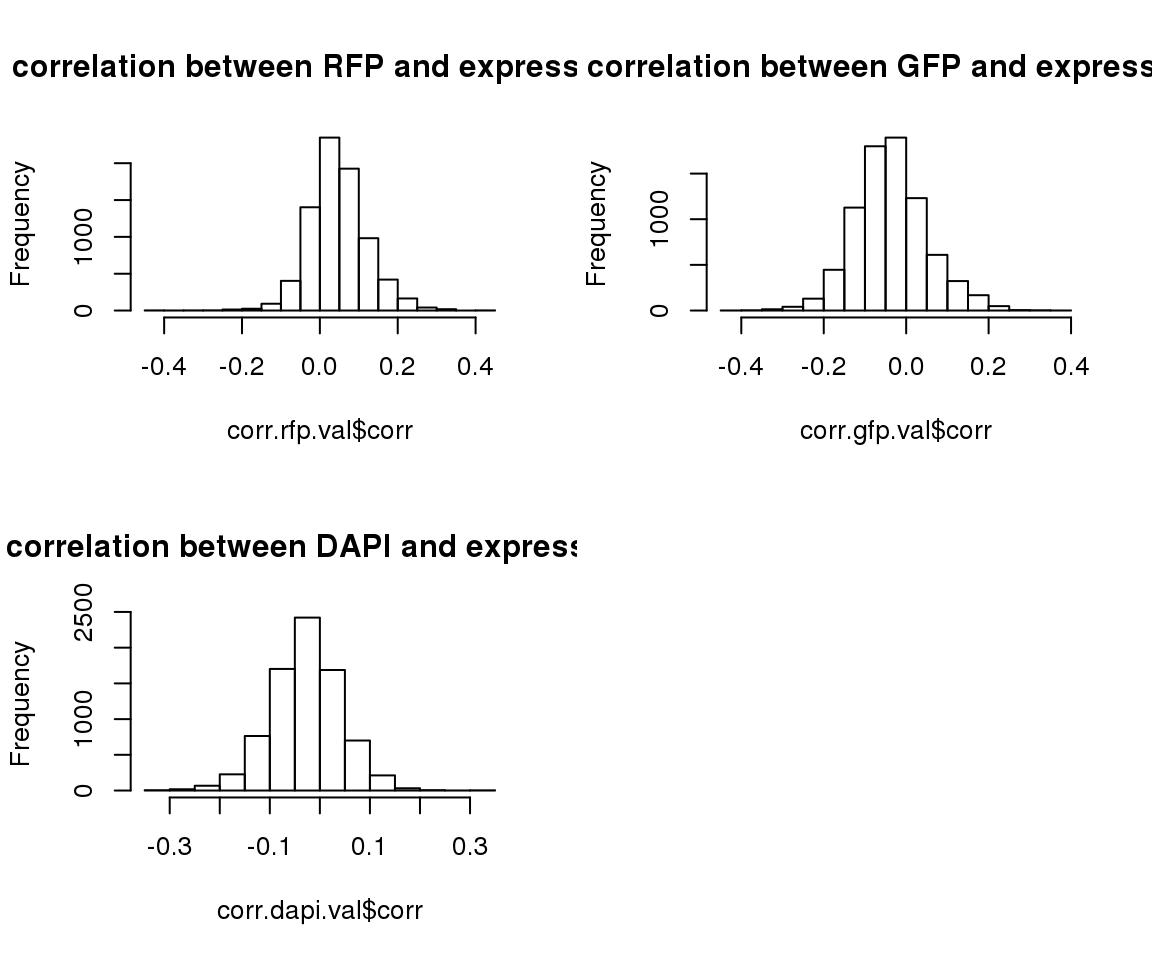
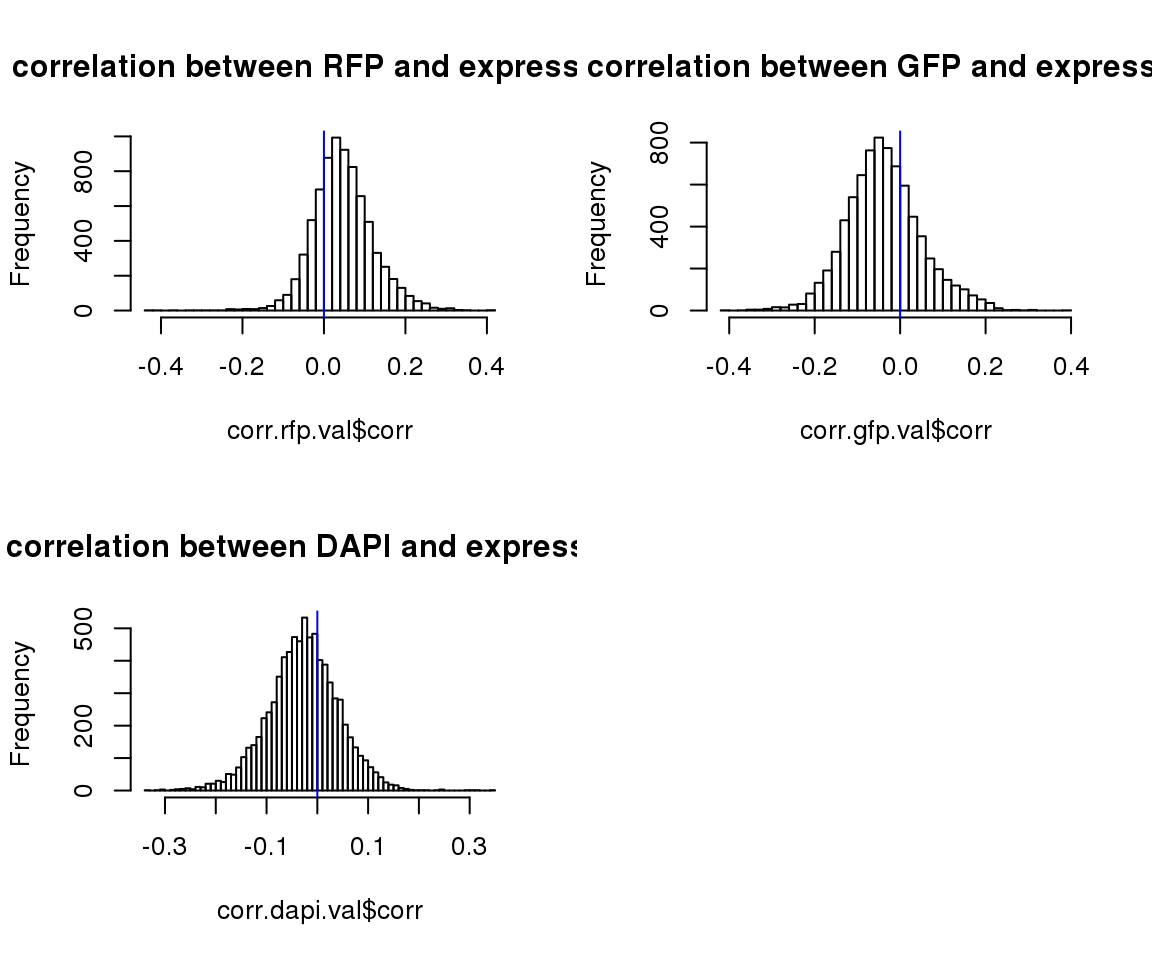
Build site.

diff --git a/docs/images-seq-correlation.html b/docs/images-seq-correlation.html
@@ -319,15 +319,15 @@ div.section {
 shared across the workflowr files. -->
 <!-- Update knitr chunk options -->
 <!-- Insert the date the file was last updated -->
-<p><strong>Last updated:</strong> 2018-02-23</p>
+<p><strong>Last updated:</strong> 2018-02-28</p>
 <!-- Insert the code version (Git commit SHA1) if Git repository exists and R
  package git2r is installed -->
-<p><strong>Code version:</strong> 4b23dde</p>
+<p><strong>Code version:</strong> b31578a</p>
 <hr />
 <div id="overviewresults" class="section level2">
 <h2>Overview/Results</h2>
 <p>I computed correlation between intensity measurements and gene expression (log2cpm). Then apply CorShrink to account for varying sample size between correlations.</p>
-<p>Results show that there are some indication of cell cycle signal in teh data. Of the genes with s-vaule &lt; .01, 33 correlate with DAPI are annotated as cell cycle gene, 74 correlation with RFP and annotated as cell cycle gene, and 110 correlate with GFP are annotated as cell cycle gene. However, these numbers are not large consider that there are a total of 11429 genes in the data, and among these only 1055 are annotated as cell cycle gene.</p>
+<p>Results show that there are some indication of cell cycle signal in teh data. Of the genes with s-vaule &lt; .01, 33 correlate with DAPI are annotated as cell cycle gene, 74 correlation with RFP and annotated as cell cycle gene, and 110 correlate with GFP are annotated as cell cycle gene.</p>
 <p>In addition, there are sources of variation that may drive sample differences other than cell cycle, and crucially our design induces a strong sample variation between batches, as a trade-off for avoiding confounding of individual and plate effect. Hence analysis of sample variation in our data should consider technical sources of variation along with biological variation.</p>
 <hr />
 </div>
@@ -358,8 +358,8 @@ log2cpm.adjust &lt;- log2cpm.adjust[grep(&quot;ENSG&quot;, rownames(log2cpm)),
 
 all.equal(rownames(pdata.adj), colnames(log2cpm))</code></pre>
 <pre><code>[1] TRUE</code></pre>
-<pre class="r"><code>genes.variable &lt;- readRDS(&quot;../output/seqdata-select-cellcyclegenes.Rmd/genes.variable.rds&quot;)
-genes.cycle &lt;- readRDS(file = &quot;../output/seqdata-select-cellcyclegenes.Rmd/genes.cycle.rds&quot;)</code></pre>
+<pre class="r"><code>genes.go.detect &lt;- readRDS(&quot;../output/seqdata-select-cellcyclegenes.Rmd/genes.go.detect.rds&quot;)
+genes.go &lt;- readRDS(file = &quot;../output/seqdata-select-cellcyclegenes.Rmd/genes.go.rds&quot;)</code></pre>
 </div>
 <div id="correlations" class="section level2">
 <h2>Correlations</h2>
@@ -422,9 +422,12 @@ corr.dapi.val &lt;- corr.dapi[!is.na(corr.dapi$corr),]
 
 
 par(mfrow=c(2,2))
-hist(corr.rfp.val$corr, main = &quot;correlation between RFP and expression&quot;)
-hist(corr.gfp.val$corr, main = &quot;correlation between GFP and expression&quot;)
-hist(corr.dapi.val$corr, main = &quot;correlation between DAPI and expression&quot;)</code></pre>
+hist(corr.rfp.val$corr, main = &quot;correlation between RFP and expression&quot;,nclass=50)
+abline(v=0, col = &quot;blue&quot;)
+hist(corr.gfp.val$corr, main = &quot;correlation between GFP and expression&quot;,nclass=50)
+abline(v=0, col = &quot;blue&quot;)
+hist(corr.dapi.val$corr, main = &quot;correlation between DAPI and expression&quot;,nclass=50)
+abline(v=0, col = &quot;blue&quot;)</code></pre>
 <p><img src="figure/images-seq-correlation.Rmd/unnamed-chunk-3-1.png" width="576" style="display: block; margin: auto;" /></p>
 <p>Apply CorShrink.</p>
 <pre class="r"><code>corr.rfp.shrink &lt;- CorShrinkVector(corr.rfp.val$corr, nsamp_vec = corr.rfp.val$nsam,
@@ -463,22 +466,74 @@ plot(corr.dapi.val$corr, corr.dapi.shrink$estimate,
 abline(0,1)
 title(&quot;s-value &lt; .01&quot;, outer = TRUE, line = -1)</code></pre>
 <p><img src="figure/images-seq-correlation.Rmd/unnamed-chunk-4-1.png" width="672" style="display: block; margin: auto;" /></p>
-<p>Of the ones with s-value &lt; .05, consider the proportion of genes in our annotated set.</p>
-<pre class="r"><code>ii.dapi &lt;- names(corr.dapi.shrink$estimate)[which(corr.dapi.shrink$model$result$svalue &lt; .01)]
-print(sum(ii.dapi %in% genes.cycle))</code></pre>
-<pre><code>[1] 33</code></pre>
-<pre class="r"><code>print(sum(ii.dapi %in% genes.variable))</code></pre>
-<pre><code>[1] 20</code></pre>
-<pre class="r"><code>ii.rfp &lt;- names(corr.rfp.shrink$estimate)[which(corr.rfp.shrink$model$result$svalue &lt; .01)]
-print(sum(ii.rfp %in% genes.cycle))</code></pre>
-<pre><code>[1] 74</code></pre>
-<pre class="r"><code>print(sum(ii.rfp %in% genes.variable))</code></pre>
-<pre><code>[1] 29</code></pre>
-<pre class="r"><code>ii.gfp &lt;- names(corr.gfp.shrink$estimate)[which(corr.gfp.shrink$model$result$svalue &lt; .01)]
-print(sum(ii.gfp %in% genes.cycle))</code></pre>
-<pre><code>[1] 110</code></pre>
-<pre class="r"><code>print(sum(ii.gfp %in% genes.variable))</code></pre>
-<pre><code>[1] 77</code></pre>
+<hr />
+</div>
+<div id="proportions" class="section level2">
+<h2>Proportions</h2>
+<p>Of the ones with s-value &lt; .01, consider the proportion of genes in our annotated set.</p>
+<pre class="r"><code>dapi.sig &lt;- corr.dapi.shrink$model$result$svalue &lt; .01
+go.genes &lt;- names(corr.dapi.shrink$estimate) %in% genes.go
+table(dapi.sig, go.genes)</code></pre>
+<pre><code>        go.genes
+dapi.sig FALSE TRUE
+   FALSE  7121  490
+   TRUE    200   33</code></pre>
+<pre class="r"><code>rfp.sig &lt;- corr.rfp.shrink$model$result$svalue &lt; .01
+go.genes &lt;- names(corr.rfp.shrink$estimate) %in% genes.go
+table(rfp.sig, go.genes)</code></pre>
+<pre><code>       go.genes
+rfp.sig FALSE TRUE
+  FALSE  7003  449
+  TRUE    318   74</code></pre>
+<pre class="r"><code>gfp.sig &lt;- corr.gfp.shrink$model$result$svalue &lt; .01
+go.genes &lt;- names(corr.gfp.shrink$estimate) %in% genes.go
+table(gfp.sig, go.genes)</code></pre>
+<pre><code>       go.genes
+gfp.sig FALSE TRUE
+  FALSE  5857  413
+  TRUE   1464  110</code></pre>
+<p>Given that genes belong to GO cell cycle category, the proportion that has significant correlation with RFP, GFP, and DAPI intensities</p>
+<p>DAPI</p>
+<pre class="r"><code>sum(dapi.sig*go.genes)/sum(go.genes)</code></pre>
+<pre><code>[1] 0.06309751</code></pre>
+<p>GFP</p>
+<pre class="r"><code>sum(gfp.sig*go.genes)/sum(go.genes)</code></pre>
+<pre><code>[1] 0.210325</code></pre>
+<p>RFP</p>
+<pre class="r"><code>sum(rfp.sig*go.genes)/sum(go.genes)</code></pre>
+<pre><code>[1] 0.1414914</code></pre>
+<p>Of the ones with s-value &lt; .01, consider the proportion of genes in our annotated set and also with detection rate &gt; 50%</p>
+<pre class="r"><code>dapi.sig &lt;- corr.dapi.shrink$model$result$svalue &lt; .01
+go.genes &lt;- names(corr.dapi.shrink$estimate) %in% genes.go.detect
+table(dapi.sig, go.genes)</code></pre>
+<pre><code>        go.genes
+dapi.sig FALSE TRUE
+   FALSE  7194  417
+   TRUE    200   33</code></pre>
+<pre class="r"><code>rfp.sig &lt;- corr.rfp.shrink$model$result$svalue &lt; .01
+go.genes &lt;- names(corr.rfp.shrink$estimate) %in% genes.go.detect
+table(rfp.sig, go.genes)</code></pre>
+<pre><code>       go.genes
+rfp.sig FALSE TRUE
+  FALSE  7075  377
+  TRUE    319   73</code></pre>
+<pre class="r"><code>gfp.sig &lt;- corr.gfp.shrink$model$result$svalue &lt; .01
+go.genes &lt;- names(corr.gfp.shrink$estimate) %in% genes.go.detect
+table(gfp.sig, go.genes)</code></pre>
+<pre><code>       go.genes
+gfp.sig FALSE TRUE
+  FALSE  5927  343
+  TRUE   1467  107</code></pre>
+<p>Given that genes belong to GO cell cycle category and with detection rate &gt; 50%, the proportion that has significant correlation with RFP, GFP, and DAPI intensities</p>
+<p>DAPI</p>
+<pre class="r"><code>sum(dapi.sig*go.genes)/sum(go.genes)</code></pre>
+<pre><code>[1] 0.07333333</code></pre>
+<p>GFP</p>
+<pre class="r"><code>sum(gfp.sig*go.genes)/sum(go.genes)</code></pre>
+<pre><code>[1] 0.2377778</code></pre>
+<p>RFP</p>
+<pre class="r"><code>sum(rfp.sig*go.genes)/sum(go.genes)</code></pre>
+<pre><code>[1] 0.1622222</code></pre>
 <hr />
 </div>
 <div id="session-information" class="section level2">
